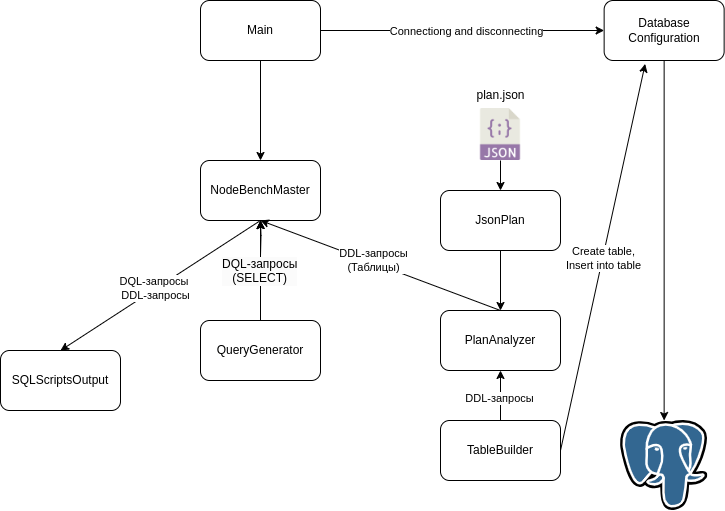
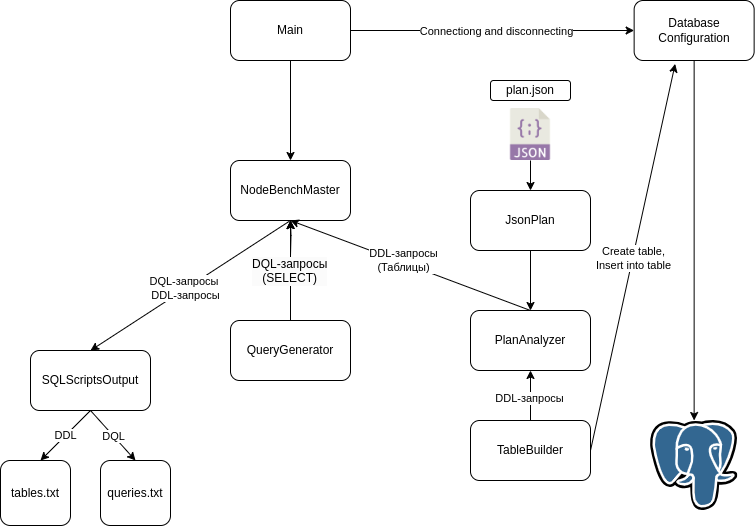
README.md

diff --git a/README.md b/README.md
@@ -1,19 +1,121 @@
 # pg_nodebench
 
-<div>
-  <button onclick="showSection('english')">English</button>
-  <button onclick="showSection('russian')">Русский</button>
-</div>
-<div id="english">
-Hello baby
-</div>
+#### pg_nodebench -- это приложение, генерирующее запросы с заданным планом выполнения.
 
-<div id="russian">
-Привет малышка
-</div>
+![pg_nodebench.png](pg_nodebench.png)
+
+**Database Configuation** -- компонент отвечающий за соединение
+с базой данных PostgreSQL. 
+
+**NodeBenchMaster** -- основной класс, который управляет компонентами.
+
+**JsonPlan** -- стуруктра JSON с планом запроса.
+
+**PlanAnalyzer** -- компонент, отвечающий за создание таблиц, 
+необходимых для генерации запросов и создает структуру 
+**NodeTree**. Возвращает DDL-запросы, 
+(создание таблиц и вставка) и
+**NodeTree**.
+
+**NodeTree** -- структура дерева плана запроса
+состоящий из узлов Node. 
+
+**Node** -- объекты данного интерфейсы, представляют собой узлы
+дерева плана. Строит запрос с помощью метода 
+buildQuery(QueryBuilder).
+
+**Scan** -- объекты данного интерфейса, представляют собой узлы
+чтения таблицы. Генерируют таблицу, 
+для которой можно выполнить опреденный тип чтения.
+
+**TableBuilder** -- компонент, который строит таблицы 
+и вставляет в них данные. Возвращает DDL-запросы, 
+(создание таблиц и вставка)
+
+**QueryGenerator** -- компонент, отвечающий за генерацию запросов.
+Принимает в аргументы NodeTree, и в зависимости от узлов дерева NodeTree 
+строит запрос.
+
+**QueryBuilder** -- класс, который отвечает за создание запроса.
+Объект этого класса обходит дерево NodeTree и меняет свои свойства
+после обхода узла Node. 
+После обхода с помощью метода build() строится
+запрос.
+
+**SQLScriptsOutput** -- компонент, который отвечает за 
+вывод реузльтирующих sql-запросов(ddl-запросы для таблиц и 
+dql-запросы с заданным планом).
+
+**tables.txt** -- файл с таблицами.
+
+**queries.txt** -- файл с запросами.
+
+**bench.log** -- лог.
+
+### Реализованные узлы:
+
+Узлы чтения:
+> Seq Scan
+> 
+> Index Scan
+> 
+> Index Only Scan
+> 
+> Bitmap Index Scan
+> 
+> Bitmap Heap Scan
+
+Функциональные узлы:
+
+> Aggregate
+> Append
+
+Узлы соединения:
+
+> Nested Loop
+> 
+> Hash Join
+> 
+> Merge Join
+
+Вспомогательные узлы:
+
+> Hash
+> 
+> Materialize
+
+### Build
+
+``` 
+./gradlew
+```
+
+### Run
+```
+java -jar build/libs/pg_nodebench-1.0.jar -h localhost -j testplans/mergejoin.json -S 1000 -q 50
+```
+
+-h -- хост.
+
+-j -- путь к json-файлу.
+
+-S -- размер таблиц в строках (всех).
+
+-q -- количество запросов. По умолчанию 100.
+
+-d -- имя базы данных. По умолчанию 'postgres'
+
+-U -- имя пользователя.
+
+-p -- порт. По умолчанию 5432.
+
+-P -- пароль пользователя.
 
 
-<script> function showSection(lang) { document.getElementById('english').style.display = (lang === 'english') 
-? 'block' : 'none'; 
-document.getElementById('russian').style.display = (lang === 'russian') ? 'block' : 'none'; } 
-</script>
+
+
+
+
+
+
+
